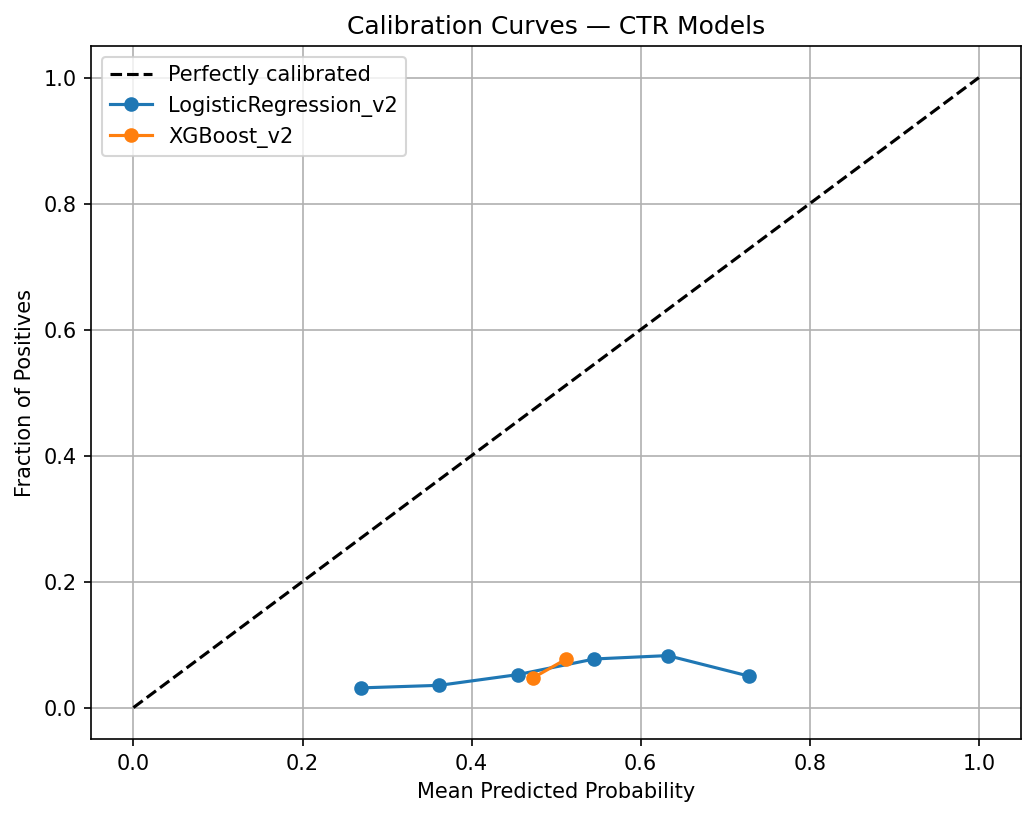
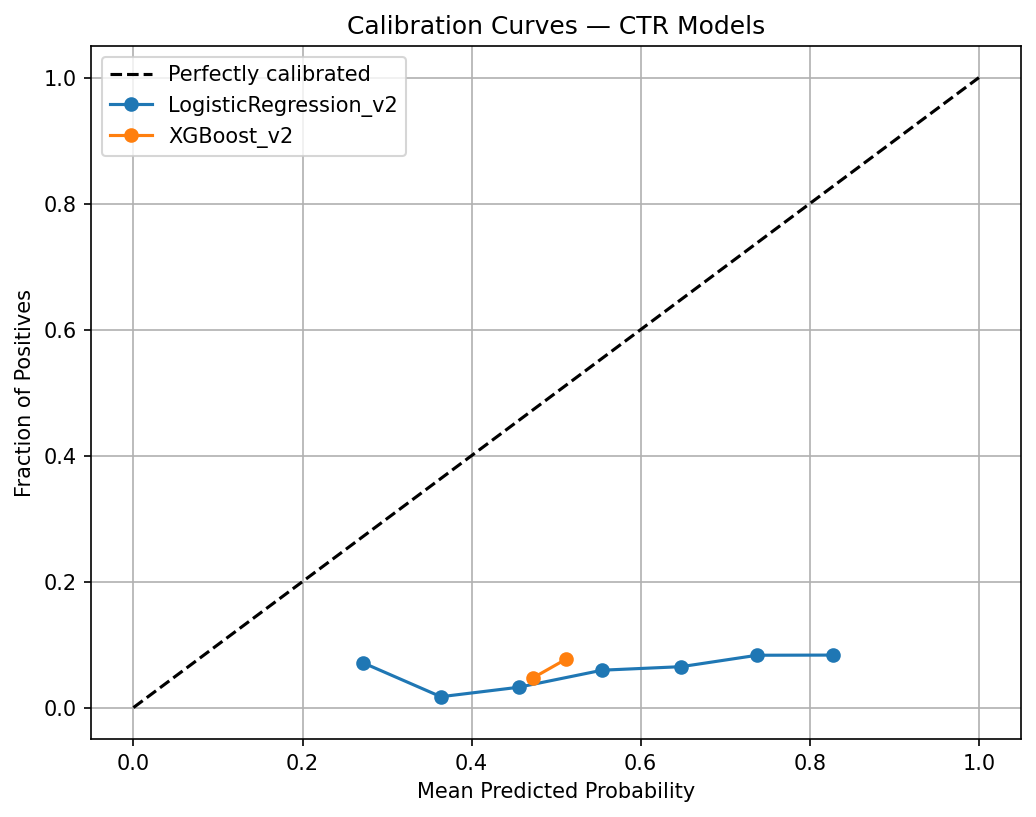
feat: implement advanced CTR training pipeline with XGBoost v2 and diagnostic reporting

Changed region(s): [[0.556, 0.7956, 0.834, 0.8568], [0.3398, 0.7956, 0.556, 0.8568]]

diff --git a/src/models/train_improved_ctr.py b/src/models/train_improved_ctr.py
@@ -19,6 +19,9 @@ from sklearn.linear_model import LogisticRegression
 from sklearn.model_selection import train_test_split
 from sklearn.preprocessing import LabelEncoder
 import xgboost as xgb
+import mlflow
+import mlflow.sklearn
+import mlflow.xgboost
 
 from src.config.settings import settings
 from src.features.feature_engineering import (
@@ -136,6 +139,15 @@ def build_improved_feature_matrix(
 # ------------------------------------------------------------------
 
 def train():
+    # Phase 11: Setup MLflow tracking UI
+    # MLflow interprets C:\ as a scheme. Using a relative local path bypasses uri strictness.
+    mlruns_path = "logs/mlruns"
+    os.makedirs(mlruns_path, exist_ok=True)
+    
+    mlflow.set_tracking_uri(mlruns_path)
+    mlflow.set_experiment("Ad_Bidding_CTR_Optimization")
+    logger.info(f"MLflow tracking configured -> {mlruns_path}")
+
     df = load_processed_data()
 
     X, y, label_encoders, adv_state = build_improved_feature_matrix(df)
@@ -155,46 +167,65 @@ def train():
     # 1. Logistic Regression (improved features, same algorithm as baseline)
     # ------------------------------------------------------------------
     logger.info("Training Logistic Regression (improved features)...")
-    lr_model = LogisticRegression(
-        max_iter=3000,
-        class_weight="balanced",
-        random_state=RANDOM_STATE,
-        solver="saga",   # saga handles larger datasets / more features better than lbfgs
-    )
-    lr_model.fit(X_train, y_train)
+    lr_params = {
+        "max_iter": 3000,
+        "class_weight": "balanced",
+        "random_state": RANDOM_STATE,
+        "solver": "saga",   # saga handles larger datasets / more features better than lbfgs
+    }
+    
+    with mlflow.start_run(run_name="LogisticRegression_v2"):
+        mlflow.log_params(lr_params)
+        lr_model = LogisticRegression(**lr_params)
+        lr_model.fit(X_train, y_train)
+        
+        y_prob_lr = lr_model.predict_proba(X_test)[:, 1]
+        res_lr = compute_metrics(y_test, y_prob_lr, "LogisticRegression_v2")
+        mlflow.log_metrics({k: v for k, v in res_lr.items() if k != "model"})
+        mlflow.sklearn.log_model(lr_model, "lr_classifier_model")
 
     # ------------------------------------------------------------------
     # 2. XGBoost improved — with early stopping
     # ------------------------------------------------------------------
     logger.info("Training XGBoost (improved features + early stopping)...")
-    scale_pos_weight = (y_train == 0).sum() / (y_train == 1).sum()
+    scale_pos_weight = float((y_train == 0).sum() / (y_train == 1).sum())
 
-    xgb_model = xgb.XGBClassifier(
-        n_estimators=500,
-        max_depth=5,
-        learning_rate=0.03,
-        subsample=0.8,
-        colsample_bytree=0.7,
-        min_child_weight=5,
-        gamma=0.1,
-        reg_alpha=0.1,
-        reg_lambda=1.0,
-        scale_pos_weight=scale_pos_weight,
-        eval_metric="aucpr",          # PR-AUC better for imbalanced CTR
-        use_label_encoder=False,
-        random_state=RANDOM_STATE,
-        n_jobs=-1,
-        verbosity=0,
-        early_stopping_rounds=30,
-    )
-    xgb_model.fit(
-        X_train,
-        y_train,
-        eval_set=[(X_val, y_val)],
-        verbose=False,
-    )
-    best_n = xgb_model.best_iteration
-    logger.info(f"XGBoost best iteration (early stopping): {best_n}")
+    xgb_params = {
+        "n_estimators": 500,
+        "max_depth": 5,
+        "learning_rate": 0.03,
+        "subsample": 0.8,
+        "colsample_bytree": 0.7,
+        "min_child_weight": 5,
+        "gamma": 0.1,
+        "reg_alpha": 0.1,
+        "reg_lambda": 1.0,
+        "scale_pos_weight": scale_pos_weight,
+        "eval_metric": "aucpr",
+        "use_label_encoder": False,
+        "random_state": RANDOM_STATE,
+        "n_jobs": -1,
+        "verbosity": 0,
+        "early_stopping_rounds": 30,
+    }
+    
+    with mlflow.start_run(run_name="XGBoost_v2"):
+        mlflow.log_params(xgb_params)
+        xgb_model = xgb.XGBClassifier(**xgb_params)
+        xgb_model.fit(
+            X_train,
+            y_train,
+            eval_set=[(X_val, y_val)],
+            verbose=False,
+        )
+        best_n = float(xgb_model.best_iteration)
+        logger.info(f"XGBoost best iteration (early stopping): {best_n}")
+        mlflow.log_metric("best_iteration", best_n)
+        
+        y_prob_xgb = xgb_model.predict_proba(X_test)[:, 1]
+        res_xgb = compute_metrics(y_test, y_prob_xgb, "XGBoost_v2")
+        mlflow.log_metrics({k: v for k, v in res_xgb.items() if k != "model"})
+        mlflow.xgboost.log_model(xgb_model, "xgb_classifier_model")
 
     # ------------------------------------------------------------------
     # Evaluation & comparison
@@ -204,12 +235,7 @@ def train():
         "XGBoost_v2": xgb_model,
     }
 
-    results = []
-    for name, model in models_dict.items():
-        y_prob = model.predict_proba(X_test)[:, 1]
-        results.append(compute_metrics(y_test, y_prob, name))
-
-    comparison_df = compare_models(results)
+    comparison_df = compare_models([res_lr, res_xgb])
 
     # ------------------------------------------------------------------
     # Diagnostic plots
